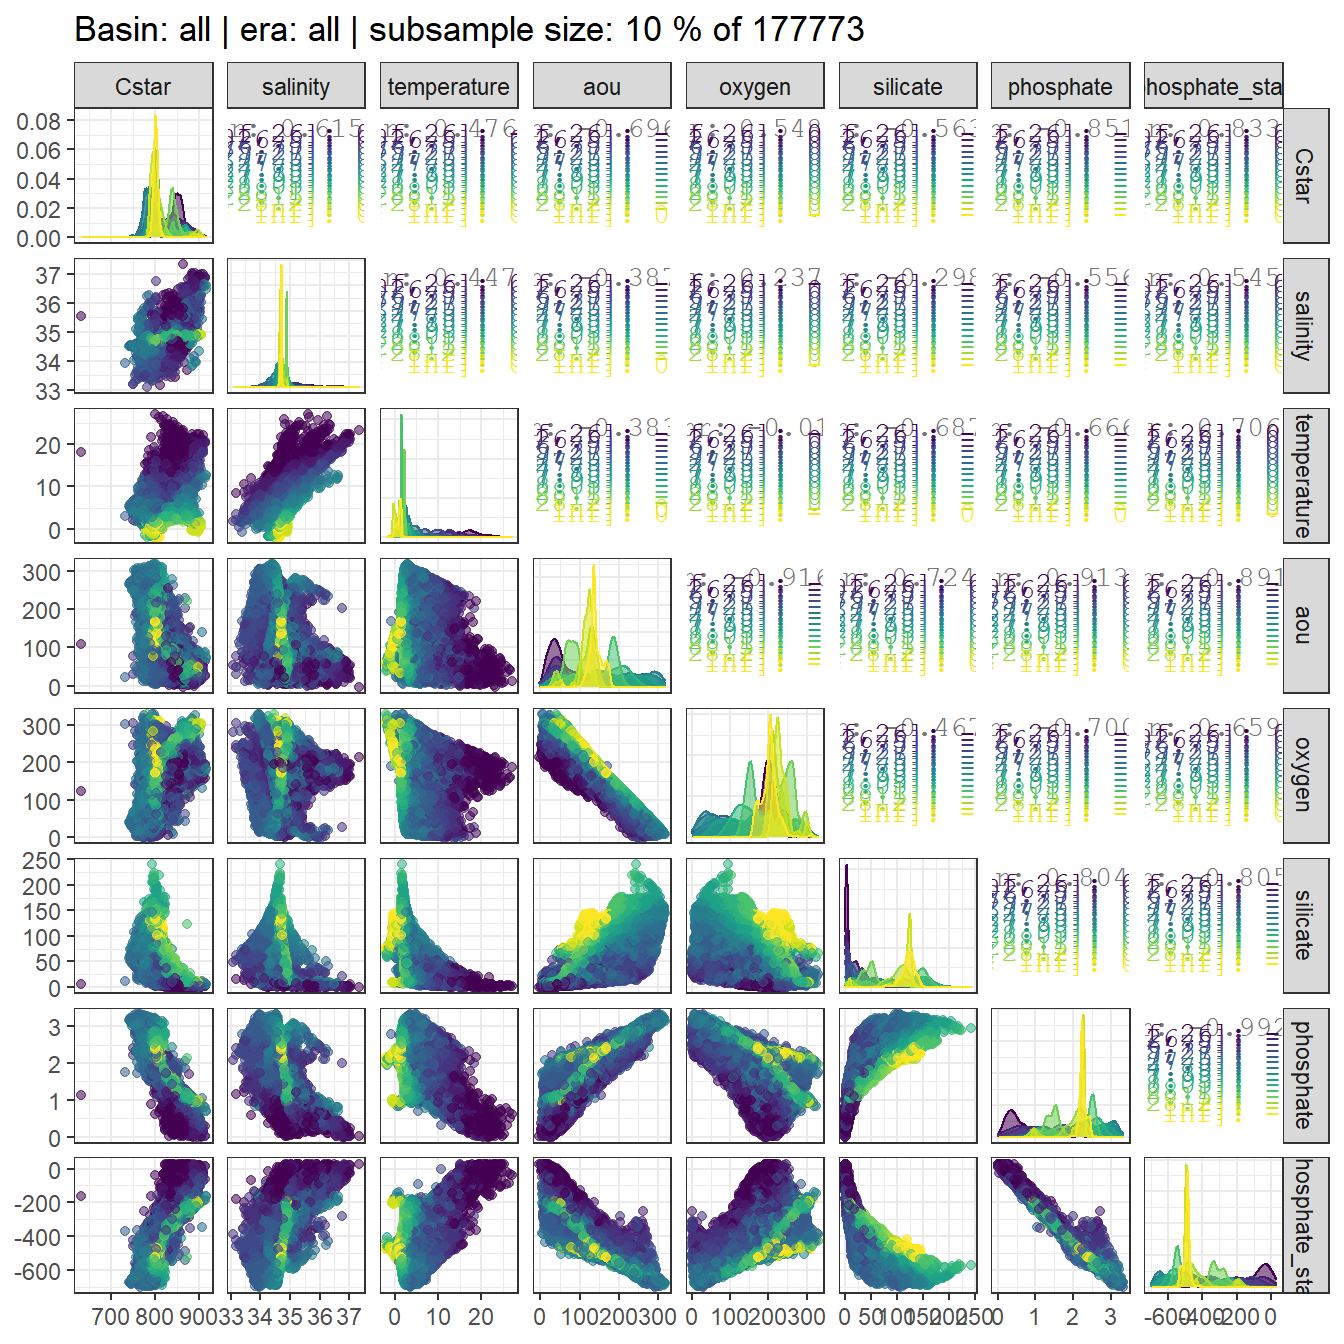
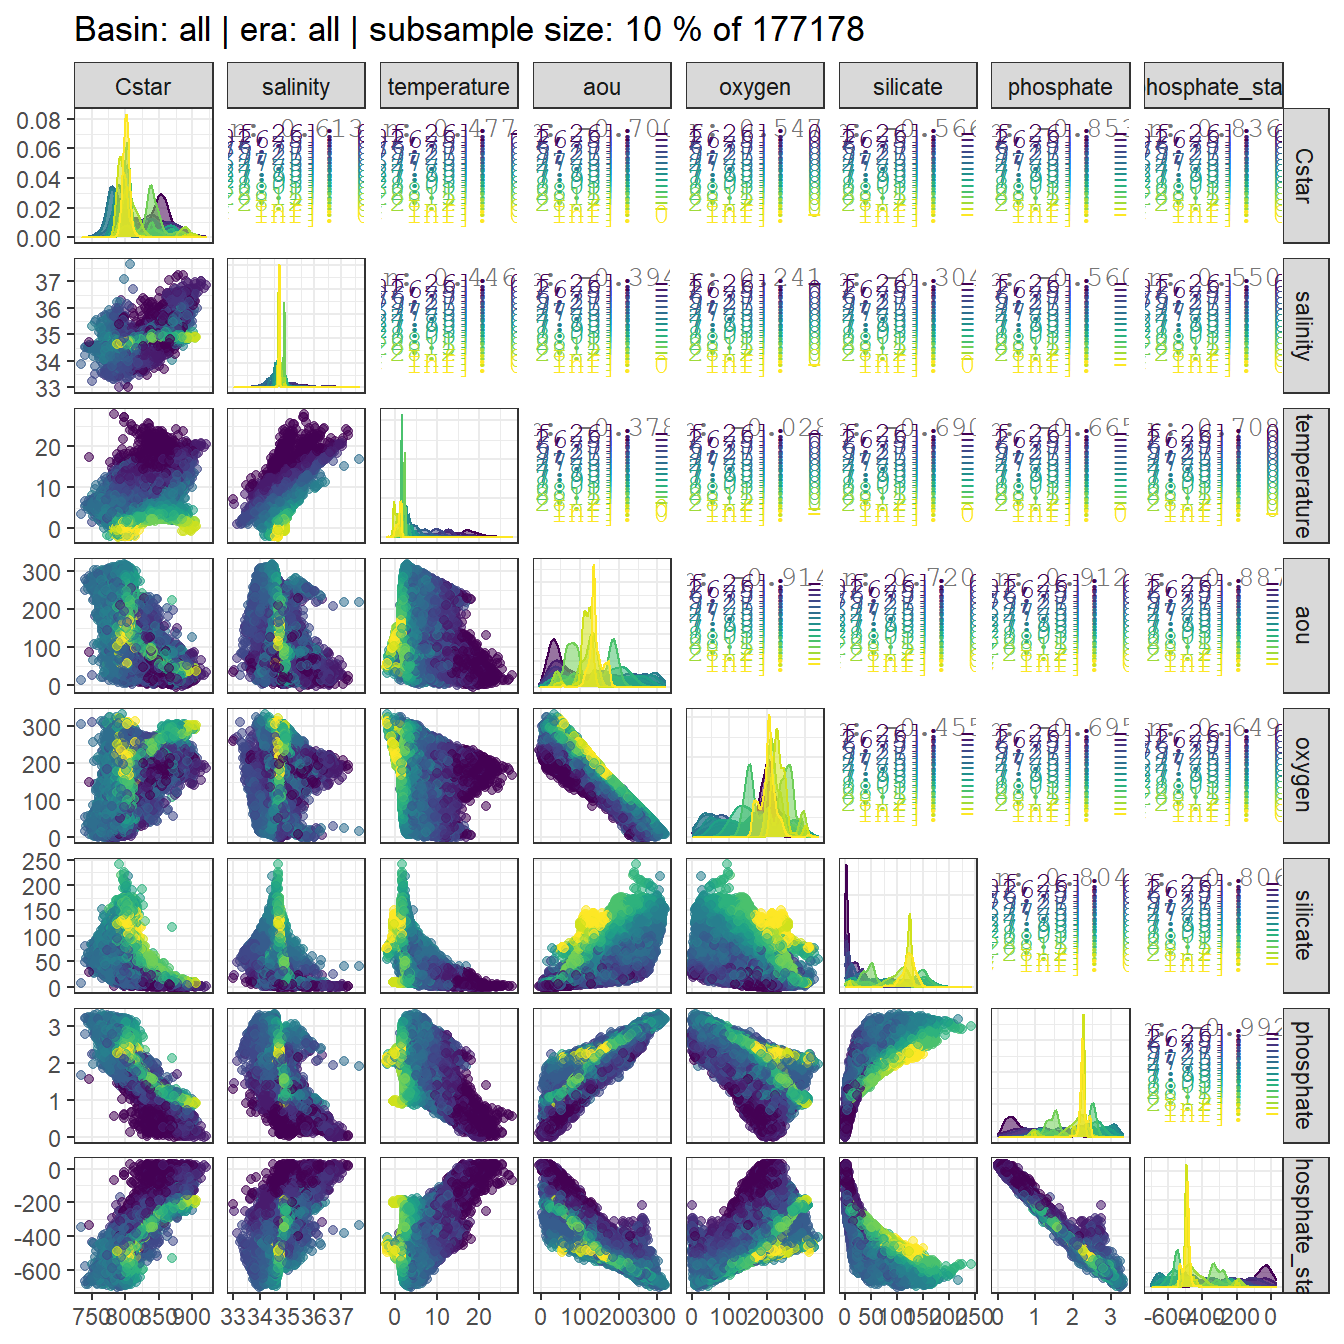
Build site.

diff --git a/docs/eMLR.html b/docs/eMLR.html
@@ -380,13 +380,13 @@ div.tocify {
       <a href="read_GLODAPv2_2020.html">GLODAPv2_2020</a>
     </li>
     <li>
-      <a href="read_GLODAPv2_2016_MappedClimatologies.html">GLODAPv2_2016_MappedClimatologies</a>
+      <a href="read_GLODAPv2_2016_MappedClimatologies.html">GLODAPv2_2016 Mapped Climatologies</a>
     </li>
     <li>
-      <a href="read_World_Ocean_Atlas_2018.html">World_Ocean_Atlas_2018</a>
+      <a href="read_World_Ocean_Atlas_2018.html">World Ocean Atlas</a>
     </li>
     <li>
-      <a href="read_CO2_atm.html">CO2 atmosphere</a>
+      <a href="read_CO2_atm.html">Atmospheric CO2</a>
     </li>
   </ul>
 </li>
@@ -434,7 +434,7 @@ div.tocify {
 
 <h1 class="title toc-ignore">Data base</h1>
 <h4 class="author">Jens Daniel Müller</h4>
-<h4 class="date">28 July, 2020</h4>
+<h4 class="date">29 July, 2020</h4>
 
 </div>
 
@@ -459,7 +459,7 @@ div.tocify {
 <div class="tab-content">
 <div id="summary" class="tab-pane fade in active">
 <p>
-<strong>Last updated:</strong> 2020-07-28
+<strong>Last updated:</strong> 2020-07-29
 </p>
 <p>
 <strong>Checks:</strong> <span class="glyphicon glyphicon-ok text-success" aria-hidden="true"></span> 7 <span class="glyphicon glyphicon-exclamation-sign text-danger" aria-hidden="true"></span> 0
@@ -550,16 +550,16 @@ This reproducible <a href="http://rmarkdown.rstudio.com">R Markdown</a> analysis
 <div class="panel panel-default">
 <div class="panel-heading">
 <p class="panel-title">
-<a data-toggle="collapse" data-parent="#workflowr-checks" href="#strongRepositoryversionstrongahrefhttpsgithubcomjensdanielmuellerCanteMLRtree5dce9156be954466163cdc901b0bff66032ce99etargetblank5dce915a"> <span class="glyphicon glyphicon-ok text-success" aria-hidden="true"></span> <strong>Repository version:</strong> <a href="https://github.com/jens-daniel-mueller/Cant_eMLR/tree/5dce9156be954466163cdc901b0bff66032ce99e" target="_blank">5dce915</a> </a>
+<a data-toggle="collapse" data-parent="#workflowr-checks" href="#strongRepositoryversionstrongahrefhttpsgithubcomjensdanielmuellerCanteMLRtreecb5074ed01339bbb4083d3c6493d31879434c9c1targetblankcb5074ea"> <span class="glyphicon glyphicon-ok text-success" aria-hidden="true"></span> <strong>Repository version:</strong> <a href="https://github.com/jens-daniel-mueller/Cant_eMLR/tree/cb5074ed01339bbb4083d3c6493d31879434c9c1" target="_blank">cb5074e</a> </a>
 </p>
 </div>
[2 lines of base64/hex data omitted]
 <div class="panel-body">
 <p>
 Great! You are using Git for version control. Tracking code development and connecting the code version to the results is critical for reproducibility.
 </p>
 <p>
-The results in this page were generated with repository version <a href="https://github.com/jens-daniel-mueller/Cant_eMLR/tree/5dce9156be954466163cdc901b0bff66032ce99e" target="_blank">5dce915</a>. See the <em>Past versions</em> tab to see a history of the changes made to the R Markdown and HTML files.
+The results in this page were generated with repository version <a href="https://github.com/jens-daniel-mueller/Cant_eMLR/tree/cb5074ed01339bbb4083d3c6493d31879434c9c1" target="_blank">cb5074e</a>. See the <em>Past versions</em> tab to see a history of the changes made to the R Markdown and HTML files.
 </p>
 <p>
 Note that you need to be careful to ensure that all relevant files for the analysis have been committed to Git prior to generating the results (you can use <code>wflow_publish</code> or <code>wflow_git_commit</code>). workflowr only checks the R Markdown file, but you know if there are other scripts or data files that it depends on. Below is the status of the Git repository when the results were generated:
@@ -567,6 +567,7 @@ Note that you need to be careful to ensure that all relevant files for the analy
 <pre><code>
 Ignored files:
     Ignored:    .Rproj.user/
+    Ignored:    analysis/figure/
     Ignored:    data/GLODAPv2_2016b_MappedClimatologies/
     Ignored:    data/GLODAPv2_2020/
     Ignored:    data/World_Ocean_Atlas_2018/
@@ -612,6 +613,40 @@ Message
 </tr>
 </thead>
 <tbody>
+<tr>
+<td>
+Rmd
+</td>
+<td>
+<a href="https://github.com/jens-daniel-mueller/Cant_eMLR/blob/cb5074ed01339bbb4083d3c6493d31879434c9c1/analysis/eMLR.Rmd" target="_blank">cb5074e</a>
+</td>
+<td>
+jens-daniel-mueller
+</td>
+<td>
+2020-07-29
+</td>
+<td>
+subset Cant to GLODAP before merging
+</td>
+</tr>
+<tr>
+<td>
+html
+</td>
+<td>
+<a href="https://rawcdn.githack.com/jens-daniel-mueller/Cant_eMLR/44502a91ac174adc6f797572b6ee7210ca380849/docs/eMLR.html" target="_blank">44502a9</a>
+</td>
+<td>
+jens-daniel-mueller
+</td>
+<td>
+2020-07-28
+</td>
+<td>
+Build site.
+</td>
+</tr>
 <tr>
 <td>
 Rmd
@@ -1653,11 +1688,15 @@ library(broom)</code></pre>
 <p>Required are:</p>
 <ul>
 <li>clean version of GLODAPGLODAPv2.2020</li>
+<li>observations grid of clean version of GLODAPGLODAPv2.2020</li>
 <li>C_ant from GLODAPv2_2016b_MappedClimatologies</li>
 <li>annual mean atmospheric pCO<sub>2</sub></li>
 </ul>
 <pre class="r"><code>GLODAP &lt;- read_csv(here::here(&quot;data/GLODAPv2_2020/_summarized_data_files&quot;,
                               &quot;GLODAPv2.2020_clean.csv&quot;))
+
+GLODAP_obs_grid &lt;- read_csv(here::here(&quot;data/GLODAPv2_2020/_summarized_data_files&quot;,
+                                           &quot;GLODAPv2.2020_clean_obs_grid.csv&quot;))
 
 Cant_clim &lt;- read_csv(here::here(&quot;data/GLODAPv2_2016b_MappedClimatologies/_summarized_files&quot;,
                                  &quot;Cant.csv&quot;))
@@ -1667,6 +1706,8 @@ co2_atm &lt;- read_csv(here::here(&quot;data/pCO2_atmosphere/_summarized_data_fi
 </div>
 <div id="c" class="section level1">
 <h1><span class="header-section-number">2</span> C*</h1>
+<p>C* serves as a conservative tracer of anthropogenic CO<sub>2</sub> uptake. It is derived from measured DIC by removing the impact of - organic matter formation and respiration - calcification and calcium carbonate dissolution</p>
+<p>Contributions of those processes are estimated from phosphate and alkalinity concentrations.</p>
 <div id="stoichiometric-ratios" class="section level2">
 <h2><span class="header-section-number">2.1</span> Stoichiometric ratios</h2>
 <pre class="r"><code>rCP &lt;- 117
@@ -1679,6 +1720,8 @@ rNP &lt;- 16</code></pre>
 </div>
 <div id="calculation" class="section level2">
 <h2><span class="header-section-number">2.2</span> Calculation</h2>
+<pre class="r"><code>print(&quot;Cstar = tco2  + rCP_phosphate  + talk_05  + rNP_phosphate_05&quot;)</code></pre>
+<pre><code>[1] &quot;Cstar = tco2  + rCP_phosphate  + talk_05  + rNP_phosphate_05&quot;</code></pre>
 <pre class="r"><code>GLODAP &lt;- GLODAP %&gt;% 
   mutate(rCP_phosphate = -rCP * phosphate,
          talk_05 = -0.5 * talk,
@@ -1690,70 +1733,65 @@ rNP &lt;- 16</code></pre>
 <h1><span class="header-section-number">3</span> Reference year adjustment</h1>
 <p>The scaling factor for the reference year adjustment is an apriori estiamte of Cant at a given location and depth. Here, Cant from the GLODAP mapped Climatology was used.</p>
 <p>Note that eq. 6 in Clement and Gruber (2018) misses pCO2 pre-industrial in the denominator. Here we use the equation published in Gruber et al. (2019).</p>
-<div id="merge-glodap-data-set-with" class="section level2">
-<h2><span class="header-section-number">3.1</span> Merge GLODAP data set with…</h2>
-<div id="cant" class="section level3">
-<h3><span class="header-section-number">3.1.1</span> … Cant</h3>
+<div id="merge-glodap-cant" class="section level2">
+<h2><span class="header-section-number">3.1</span> Merge GLODAP + Cant</h2>
 <pre class="r"><code>Cant_clim &lt;- Cant_clim %&gt;% 
   drop_na()
 
-# GLODAP_Cant_full &lt;- full_join(GLODAP, Cant_clim)
-# 
+Cant_clim_obs &lt;- left_join(GLODAP_obs_grid, Cant_clim) %&gt;% 
+  select(-n)
+
+rm(Cant_clim, GLODAP_obs_grid)
+
+GLODAP_Cant_obs &lt;- full_join(GLODAP, Cant_clim_obs)
+
+rm(Cant_clim_obs)
+
 # GLODAP_Cant_full %&gt;% write_csv(here::here(&quot;data/GLODAPv2_2020/_summarized_data_files&quot;,
 #                                           &quot;GLODAP_Cant_full.csv&quot;))
-
-GLODAP_Cant_full &lt;- read_csv(here::here(&quot;data/GLODAPv2_2020/_summarized_data_files&quot;,
-                                          &quot;GLODAP_Cant_full.csv&quot;))</code></pre>
+# 
+# GLODAP_Cant_full &lt;- read_csv(here::here(&quot;data/GLODAPv2_2020/_summarized_data_files&quot;,
+#                                           &quot;GLODAP_Cant_full.csv&quot;))</code></pre>
 <p>The mapped Cant product was merged with GLODAP observation by:</p>
 <ul>
 <li>using an identical 1x1° horizontal grid</li>
 <li>linear interpolation of Cant from standard to sampling depth</li>
 </ul>
-<pre class="r"><code>GLODAP_Cant_observations_available &lt;- GLODAP_Cant_full %&gt;% 
-  group_by(lat, lon) %&gt;% 
-  mutate(n_GLODAP = sum(!is.na(Cstar))) %&gt;% 
-  ungroup() %&gt;% 
-  filter(n_GLODAP &gt; 0) %&gt;% 
-  select(-n_GLODAP)
-
-rm(GLODAP_Cant_full)
-
-GLODAP_Cant_observations_available &lt;- GLODAP_Cant_observations_available %&gt;% 
+<pre class="r"><code>GLODAP_Cant_obs &lt;- GLODAP_Cant_obs %&gt;% 
   group_by(lat, lon) %&gt;% 
   arrange(depth) %&gt;% 
   mutate(Cant_int = approxfun(depth, Cant, rule = 2)(depth)) %&gt;% 
   ungroup()
 
 ggplot() +
-    geom_path(data = GLODAP_Cant_observations_available %&gt;% 
+    geom_path(data = GLODAP_Cant_obs %&gt;% 
               filter(lat == 48.5, lon == 165.5, !is.na(Cant)) %&gt;% 
               arrange(depth),
             aes(Cant, depth, col = &quot;mapped&quot;)) +
-  geom_point(data = GLODAP_Cant_observations_available %&gt;% 
+  geom_point(data = GLODAP_Cant_obs %&gt;% 
               filter(lat == 48.5, lon == 165.5, !is.na(Cant)) %&gt;% 
               arrange(depth),
             aes(Cant, depth, col = &quot;mapped&quot;)) +
-  geom_point(data = GLODAP_Cant_observations_available %&gt;% 
+  geom_point(data = GLODAP_Cant_obs %&gt;% 
               filter(lat == 48.5, lon == 165.5, date == ymd(&quot;2018-06-27&quot;)),
             aes(Cant_int, depth, col = &quot;interpolated&quot;)) +
   scale_y_reverse() +
   scale_color_brewer(palette = &quot;Dark2&quot;, name = &quot;&quot;) +
   labs(title = &quot;Cant interpolation to sampling depth - example profile&quot;)</code></pre>
 <p><img src="figure/eMLR.Rmd/interpolate_Cant_to_observations-1.png" width="672" style="display: block; margin: auto;" /></p>
-<pre class="r"><code>GLODAP &lt;- GLODAP_Cant_observations_available %&gt;% 
+<pre class="r"><code>GLODAP &lt;- GLODAP_Cant_obs %&gt;% 
   filter(!is.na(Cstar)) %&gt;% 
   mutate(Cant = Cant_int) %&gt;% 
   select(-Cant_int)
 
-rm(GLODAP_Cant_observations_available, Cant_clim)</code></pre>
+rm(GLODAP_Cant_obs)</code></pre>
 </div>
-<div id="atmospheric-pco2" class="section level3">
-<h3><span class="header-section-number">3.1.2</span> … Atmospheric pCO2</h3>
+<div id="merge-glodap-atmospheric-pco2" class="section level2">
+<h2><span class="header-section-number">3.2</span> Merge GLODAP + atmospheric pCO<sub>2</sub></h2>
 <pre class="r"><code>GLODAP &lt;- left_join(GLODAP, co2_atm)</code></pre>
 </div>
-</div>
 <div id="calculate-adjustment" class="section level2">
-<h2><span class="header-section-number">3.2</span> Calculate adjustment</h2>
+<h2><span class="header-section-number">3.3</span> Calculate adjustment</h2>
 <pre class="r"><code>GLODAP &lt;- GLODAP %&gt;% 
   group_by(era) %&gt;% 
   mutate(tref = median(year)) %&gt;% 
@@ -1778,14 +1816,14 @@ GLODAP &lt;- GLODAP %&gt;%
          Cstar_tref = Cstar - Cstar_tref_delta)</code></pre>
 </div>
 <div id="control-plots" class="section level2">
-<h2><span class="header-section-number">3.3</span> Control plots</h2>
+<h2><span class="header-section-number">3.4</span> Control plots</h2>
 <pre class="r"><code>GLODAP %&gt;% 
   ggplot(aes(Cstar_tref_delta)) +
   geom_histogram()</code></pre>
 <p><img src="figure/eMLR.Rmd/Cstar_reference_year_adjustment_histogram-1.png" width="672" style="display: block; margin: auto;" /></p>
 <pre class="r"><code>GLODAP %&gt;% 
   sample_n(10000) %&gt;% 
-  ggplot(aes(year - tref, Cstar_tref_delta, col=Cant)) +
+  ggplot(aes(year, Cstar_tref_delta, col = Cant)) +
   geom_point() +
   scale_color_viridis_c() +
   labs(title = &quot;random subsample 1e4&quot;)</code></pre>
@@ -1796,12 +1834,6 @@ GLODAP &lt;- GLODAP %&gt;%
 <h1><span class="header-section-number">4</span> Selected section plots</h1>
 <p>Selected sections are plotted to demonstrate the magnitude of various parameters and corrections relevant to C*.</p>
 <pre class="r"><code>cruises_meridional &lt;- c(&quot;1041&quot;)
-
-# cruises_meridional &lt;- c(&quot;1041&quot;,&quot;1042&quot;, &quot;260&quot;,
-#                         &quot;2011&quot;, &quot;393&quot;, &quot;1031&quot;, &quot;394&quot;, &quot;395&quot;,
-#                         &quot;1088&quot;, &quot;983&quot;)
-
-# cruises_zonal &lt;- c()
 
 GLODAP_cruise &lt;- GLODAP %&gt;% 
   filter(cruise %in% cruises_meridional)</code></pre>

diff --git a/docs/read_GLODAPv2_2020.html b/docs/read_GLODAPv2_2020.html
@@ -379,13 +379,13 @@ div.tocify {
       <a href="read_GLODAPv2_2020.html">GLODAPv2_2020</a>
     </li>
     <li>
-      <a href="read_GLODAPv2_2016_MappedClimatologies.html">GLODAPv2_2016_MappedClimatologies</a>
+      <a href="read_GLODAPv2_2016_MappedClimatologies.html">GLODAPv2_2016 Mapped Climatologies</a>
     </li>
     <li>
-      <a href="read_World_Ocean_Atlas_2018.html">World_Ocean_Atlas_2018</a>
+      <a href="read_World_Ocean_Atlas_2018.html">World Ocean Atlas</a>
     </li>
     <li>
-      <a href="read_CO2_atm.html">CO2 atmosphere</a>
+      <a href="read_CO2_atm.html">Atmospheric CO2</a>
     </li>
   </ul>
 </li>
@@ -549,16 +549,16 @@ This reproducible <a href="http://rmarkdown.rstudio.com">R Markdown</a> analysis
 <div class="panel panel-default">
 <div class="panel-heading">
 <p class="panel-title">
-<a data-toggle="collapse" data-parent="#workflowr-checks" href="#strongRepositoryversionstrongahrefhttpsgithubcomjensdanielmuellerCanteMLRtree82db96923474b4c031161e411723c859cf429a23targetblank82db969a"> <span class="glyphicon glyphicon-ok text-success" aria-hidden="true"></span> <strong>Repository version:</strong> <a href="https://github.com/jens-daniel-mueller/Cant_eMLR/tree/82db96923474b4c031161e411723c859cf429a23" target="_blank">82db969</a> </a>
+<a data-toggle="collapse" data-parent="#workflowr-checks" href="#strongRepositoryversionstrongahrefhttpsgithubcomjensdanielmuellerCanteMLRtreecb5074ed01339bbb4083d3c6493d31879434c9c1targetblankcb5074ea"> <span class="glyphicon glyphicon-ok text-success" aria-hidden="true"></span> <strong>Repository version:</strong> <a href="https://github.com/jens-daniel-mueller/Cant_eMLR/tree/cb5074ed01339bbb4083d3c6493d31879434c9c1" target="_blank">cb5074e</a> </a>
 </p>
 </div>
[2 lines of base64/hex data omitted]
 <div class="panel-body">
 <p>
 Great! You are using Git for version control. Tracking code development and connecting the code version to the results is critical for reproducibility.
 </p>
 <p>
-The results in this page were generated with repository version <a href="https://github.com/jens-daniel-mueller/Cant_eMLR/tree/82db96923474b4c031161e411723c859cf429a23" target="_blank">82db969</a>. See the <em>Past versions</em> tab to see a history of the changes made to the R Markdown and HTML files.
+The results in this page were generated with repository version <a href="https://github.com/jens-daniel-mueller/Cant_eMLR/tree/cb5074ed01339bbb4083d3c6493d31879434c9c1" target="_blank">cb5074e</a>. See the <em>Past versions</em> tab to see a history of the changes made to the R Markdown and HTML files.
 </p>
 <p>
 Note that you need to be careful to ensure that all relevant files for the analysis have been committed to Git prior to generating the results (you can use <code>wflow_publish</code> or <code>wflow_git_commit</code>). workflowr only checks the R Markdown file, but you know if there are other scripts or data files that it depends on. Below is the status of the Git repository when the results were generated:
@@ -612,6 +612,40 @@ Message
 </tr>
 </thead>
 <tbody>
+<tr>
+<td>
+Rmd
+</td>
+<td>
+<a href="https://github.com/jens-daniel-mueller/Cant_eMLR/blob/cb5074ed01339bbb4083d3c6493d31879434c9c1/analysis/read_GLODAPv2_2020.Rmd" target="_blank">cb5074e</a>
+</td>
+<td>
+jens-daniel-mueller
+</td>
+<td>
+2020-07-29
+</td>
+<td>
+subset Cant to GLODAP before merging
+</td>
+</tr>
+<tr>
+<td>
+html
+</td>
+<td>
+<a href="https://rawcdn.githack.com/jens-daniel-mueller/Cant_eMLR/8d71a5601041a5e1a484f48471ba3b0cc44d9996/docs/read_GLODAPv2_2020.html" target="_blank">8d71a56</a>
+</td>
+<td>
+jens-daniel-mueller
+</td>
+<td>
+2020-07-29
+</td>
+<td>
+Build site.
+</td>
+</tr>
 <tr>
 <td>
 Rmd
@@ -1609,12 +1643,22 @@ ggplot() +
 <pre class="r"><code>GLODAP &lt;- inner_join(GLODAP, basinmask)
 rm(basinmask)</code></pre>
 </div>
-<div id="write-summary-file" class="section level2">
-<h2><span class="header-section-number">2.6</span> Write summary file</h2>
-<pre class="r"><code>GLODAP  %&gt;%  write_csv(here::here(&quot;data/GLODAPv2_2020/_summarized_data_files&quot;,
+<div id="observations-grid" class="section level2">
+<h2><span class="header-section-number">2.6</span> Observations grid</h2>
+<pre class="r"><code>GLODAP_obs_grid &lt;- GLODAP %&gt;% 
+  group_by(lat, lon) %&gt;% 
+  summarise(n = n()) %&gt;% 
+  ungroup()</code></pre>
+</div>
+<div id="write-summary-filea" class="section level2">
+<h2><span class="header-section-number">2.7</span> Write summary filea</h2>
+<pre class="r"><code>GLODAP_obs_grid  %&gt;%  write_csv(here::here(&quot;data/GLODAPv2_2020/_summarized_data_files&quot;,
+                                           &quot;GLODAPv2.2020_clean_obs_grid.csv&quot;))
+
+GLODAP  %&gt;%  write_csv(here::here(&quot;data/GLODAPv2_2020/_summarized_data_files&quot;,
                                   &quot;GLODAPv2.2020_clean.csv&quot;))
 
-rm(GLODAP)</code></pre>
+rm(GLODAP, GLODAP_obs_grid)</code></pre>
 </div>
 </div>
 <div id="overview-plots" class="section level1">
